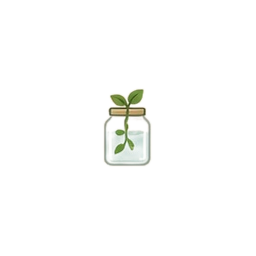
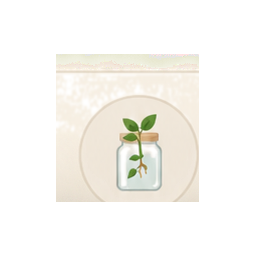
Add files via upload

Changed region(s): [[0.2188, 0.1875, 0.7812, 0.8125]]

diff --git a/index.html b/index.html
@@ -11,10 +11,10 @@
 <meta name="apple-mobile-web-app-status-bar-style" content="default">
 <meta name="apple-mobile-web-app-title" content="PlantGroove">
 <title>PlantGroove</title>
-<link rel="manifest" href="manifest.webmanifest?v=4">
-<link rel="apple-touch-icon" href="icon-192.png?v=4">
+<link rel="manifest" href="manifest.webmanifest?v=5">
+<link rel="apple-touch-icon" href="icon-192.png?v=5">
 
-<link rel="stylesheet" href="style.css?v=4">
+<link rel="stylesheet" href="style.css?v=5">
 </head>
 <body>
 <div class="app-shell">
@@ -44,16 +44,16 @@
     <path d="M387 239 l3 8 8 3-8 3-3 8-3-8-8-3 8-3z"/>
   </g>
 </svg>
-    <img class="home-plant-png" src="home-hero-plant.png?v=4" alt="" aria-hidden="true">
+    <img class="home-plant-png" src="home-hero-plant.png?v=5" alt="" aria-hidden="true">
     <div class="sparkles">✦ ✦</div>
     <h2>Track your plants over time</h2>
     <p>Log photos, jot down notes, and celebrate every bit of growth and progress.</p>
   </div>
 
   <div class="stats">
-    <div class="stat"><div class="stat-icon"><img src="stat-plants.png?v=4" alt=""></div><strong id="statPlants">0</strong><span>Plants</span></div>
-    <div class="stat"><div class="stat-icon"><img src="stat-props.png?v=4" alt=""></div><strong id="statProps">0</strong><span>Props</span></div>
-    <div class="stat"><div class="stat-icon"><img src="stat-rooted.png?v=4" alt=""></div><strong id="statRooted">0</strong><span>Rooted</span></div>
+    <div class="stat"><div class="stat-icon"><img src="stat-plants.png?v=5" alt=""></div><strong id="statPlants">0</strong><span>Plants</span></div>
+    <div class="stat"><div class="stat-icon"><img src="stat-props.png?v=5" alt=""></div><strong id="statProps">0</strong><span>Props</span></div>
+    <div class="stat"><div class="stat-icon"><img src="stat-rooted.png?v=5" alt=""></div><strong id="statRooted">0</strong><span>Rooted</span></div>
   </div>
 
   <div class="section-head"><h3>Recently growing</h3><button class="text-btn" data-go="plantsView">See all ›</button></div>
@@ -489,11 +489,11 @@
 </main>
 
 <nav class="bottom-nav">
-  <button class="nav-item active" data-view="homeView"><span class="nav-icon"><img src="nav-home.png?v=4" alt=""></span><span class="nav-label">Home</span></button>
-  <button class="nav-item" data-view="plantsView"><span class="nav-icon"><img src="nav-plants.png?v=4" alt=""></span><span class="nav-label">Plants</span></button>
-  <button class="nav-item" data-view="propsView"><span class="nav-icon"><img src="nav-props.png?v=4" alt=""></span><span class="nav-label">Props</span></button>
-  <button class="nav-item" data-view="tcView"><span class="nav-icon"><img src="nav-tc.png?v=4" alt=""></span><span class="nav-label">TC</span></button>
-  <button class="nav-item" data-view="growthView"><span class="nav-icon"><img src="nav-growth.png?v=4" alt=""></span><span class="nav-label">Growth</span></button>
+  <button class="nav-item active" data-view="homeView"><span class="nav-icon"><img src="nav-home.png?v=5" alt=""></span><span class="nav-label">Home</span></button>
+  <button class="nav-item" data-view="plantsView"><span class="nav-icon"><img src="nav-plants.png?v=5" alt=""></span><span class="nav-label">Plants</span></button>
+  <button class="nav-item" data-view="propsView"><span class="nav-icon"><img src="nav-props.png?v=5" alt=""></span><span class="nav-label">Props</span></button>
+  <button class="nav-item" data-view="tcView"><span class="nav-icon"><img src="nav-tc.png?v=5" alt=""></span><span class="nav-label">TC</span></button>
+  <button class="nav-item" data-view="growthView"><span class="nav-icon"><img src="nav-growth.png?v=5" alt=""></span><span class="nav-label">Growth</span></button>
 </nav>
 
 <dialog id="plantDialog" class="sheet">
@@ -583,7 +583,7 @@
 </form>
 </dialog>
 
-<script src="app.js?v=4"></script>
+<script src="app.js?v=5"></script>
 </div>
 </body>
 </html>

diff --git a/style.css b/style.css
@@ -862,3 +862,54 @@ input,select,textarea{width:100%;margin-top:6px;padding:12px;border-radius:12px;
   .bottom-nav .nav-icon img{width:42px !important;height:42px !important}
   .home-plant-png{width:164px !important;right:-4px !important;bottom:22px !important}
 }
+
+/* v5 preferred visual direction */
+.stat-icon{
+  width:96px !important;
+  height:96px !important;
+  margin:0 auto 2px !important;
+}
+.stat-icon img{
+  width:92px !important;
+  height:92px !important;
+  object-fit:contain !important;
+}
+.bottom-nav .nav-icon{
+  width:66px !important;
+  height:66px !important;
+  border-radius:33px !important;
+  background:#f7f0e3 !important;
+  border:1px solid #ded1ba !important;
+  display:grid !important;
+  place-items:center !important;
+}
+.bottom-nav .nav-icon img{
+  width:54px !important;
+  height:54px !important;
+  object-fit:contain !important;
+}
+.bottom-nav .nav-item.active .nav-icon{
+  background:var(--olive) !important;
+  border-color:rgba(255,255,255,.24) !important;
+}
+.home-plant-png{
+  width:198px !important;
+  right:-6px !important;
+  bottom:20px !important;
+  filter:none !important;
+  box-shadow:none !important;
+}
+@media(max-width:520px){
+  .stat-icon{width:88px !important;height:88px !important}
+  .stat-icon img{width:84px !important;height:84px !important}
+  .bottom-nav .nav-icon{width:62px !important;height:62px !important}
+  .bottom-nav .nav-icon img{width:50px !important;height:50px !important}
+  .home-plant-png{width:184px !important;right:-4px !important;bottom:22px !important}
+}
+@media(max-width:390px){
+  .stat-icon{width:82px !important;height:82px !important}
+  .stat-icon img{width:78px !important;height:78px !important}
+  .bottom-nav .nav-icon{width:58px !important;height:58px !important}
+  .bottom-nav .nav-icon img{width:46px !important;height:46px !important}
+  .home-plant-png{width:172px !important;right:-4px !important;bottom:24px !important}
+}
